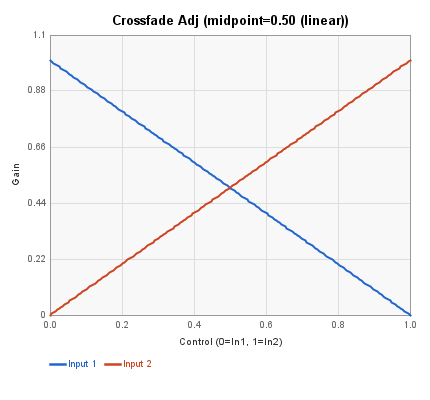
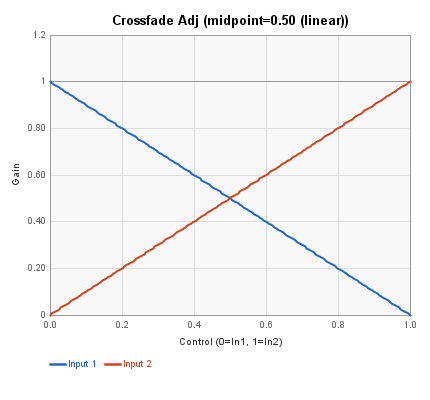
Improve crossfade doc plots: 0-1.2 Y scale, 0.2 gridlines, darker line at unity

diff --git a/src/test/java/com/holycityaudio/SpinCAD/CrossfadeDocTest.java b/src/test/java/com/holycityaudio/SpinCAD/CrossfadeDocTest.java
@@ -2,7 +2,10 @@ package com.holycityaudio.SpinCAD;
 
 import org.junit.jupiter.api.Test;
 
+import java.awt.*;
+import java.awt.image.BufferedImage;
 import java.io.File;
+import javax.imageio.ImageIO;
 
 /**
  * Generates crossfade curve plots for documentation.
@@ -11,6 +14,8 @@ import java.io.File;
 public class CrossfadeDocTest {
 
     private static final int NUM_POINTS = 200;
+    private static final int PLOT_W = 360, PLOT_H = 280;
+    private static final int PAD_L = 50, PAD_R = 20, PAD_T = 35, PAD_B = 85;
 
     @Test
     void generateCrossfadeCurvePlots() throws Exception {
@@ -45,17 +50,38 @@ public class CrossfadeDocTest {
                 }
             }
 
-            File outFile = new File("docs/images/mix-crossfadeadj-" + fileSuffixes[mi] + ".png");
-            PlotUtils.writePlot(outFile,
-                "Crossfade Adj (midpoint=" + names[mi] + ")",
-                "Control (0=In1, 1=In2)", "Gain",
-                0, 1, 0, 1.1,
-                ctrl,
-                new double[][] { gain1Curve, gain2Curve },
-                new String[] { "Input 1", "Input 2" },
-                new String[] { PlotUtils.COLORS[0], PlotUtils.COLORS[2] },
-                5);
+            String title = "Crossfade Adj (midpoint=" + names[mi] + ")";
+            double yMin = 0, yMax = 1.2;
 
+            int totalW = PAD_L + PLOT_W + PAD_R;
+            int totalH = PAD_T + PLOT_H + PAD_B;
+            BufferedImage img = new BufferedImage(totalW, totalH, BufferedImage.TYPE_INT_ARGB);
+            Graphics2D g = PlotUtils.createGraphics(img, totalW, totalH);
+            int px = PAD_L, py = PAD_T;
+
+            // Draw plot frame with 6 Y ticks (0, 0.2, 0.4, 0.6, 0.8, 1.0, 1.2)
+            PlotUtils.drawPlot(g, px, py, PLOT_W, PLOT_H, title,
+                "Control (0=In1, 1=In2)", "Gain",
+                0, 1, yMin, yMax, 5, 6);
+
+            // Darker gridline at gain = 1.0
+            double frac10 = (1.0 - yMin) / (yMax - yMin);
+            int gy10 = py + (int)((1.0 - frac10) * PLOT_H);
+            g.setColor(new Color(0x99, 0x99, 0x99));
+            g.setStroke(new BasicStroke(1.0f));
+            g.drawLine(px, gy10, px + PLOT_W, gy10);
+
+            // Draw curves
+            String[] colors = { PlotUtils.COLORS[0], PlotUtils.COLORS[2] };
+            PlotUtils.drawCurve(g, ctrl, gain1Curve, px, py, PLOT_W, PLOT_H, 0, 1, yMin, yMax, colors[0]);
+            PlotUtils.drawCurve(g, ctrl, gain2Curve, px, py, PLOT_W, PLOT_H, 0, 1, yMin, yMax, colors[1]);
+
+            // Legend
+            PlotUtils.drawLegend(g, px, py + PLOT_H + 52, new String[] { "Input 1", "Input 2" }, colors);
+
+            g.dispose();
+            File outFile = new File("docs/images/mix-crossfadeadj-" + fileSuffixes[mi] + ".png");
+            ImageIO.write(img, "png", outFile);
             System.out.println("Wrote " + outFile.getPath());
         }
     }
